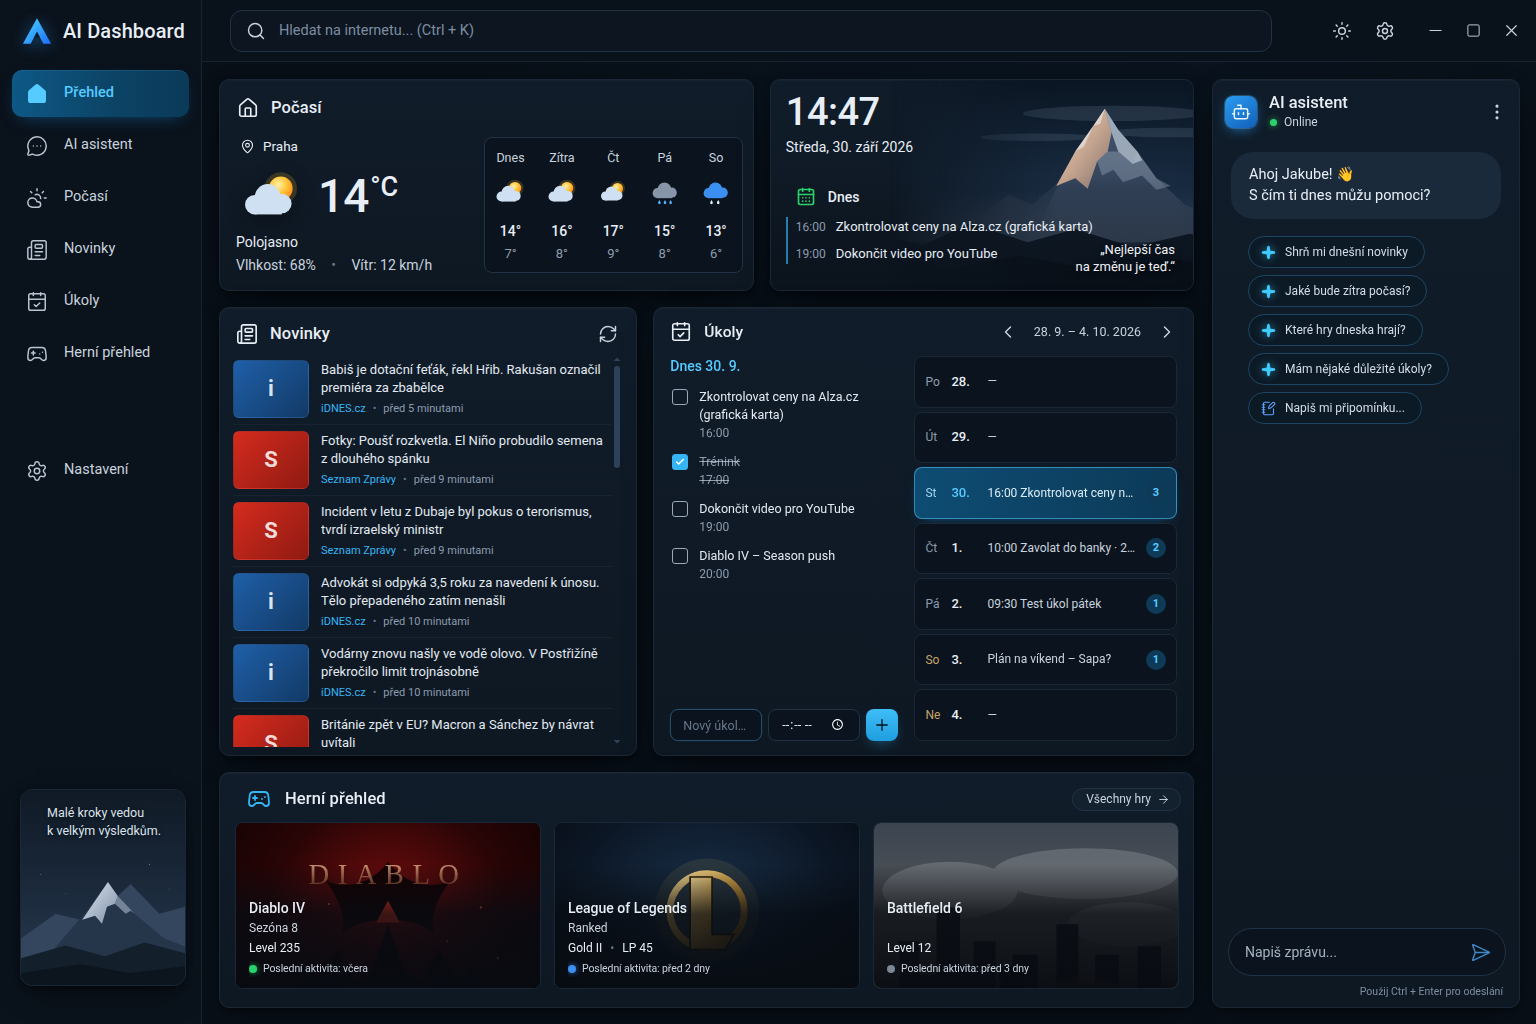
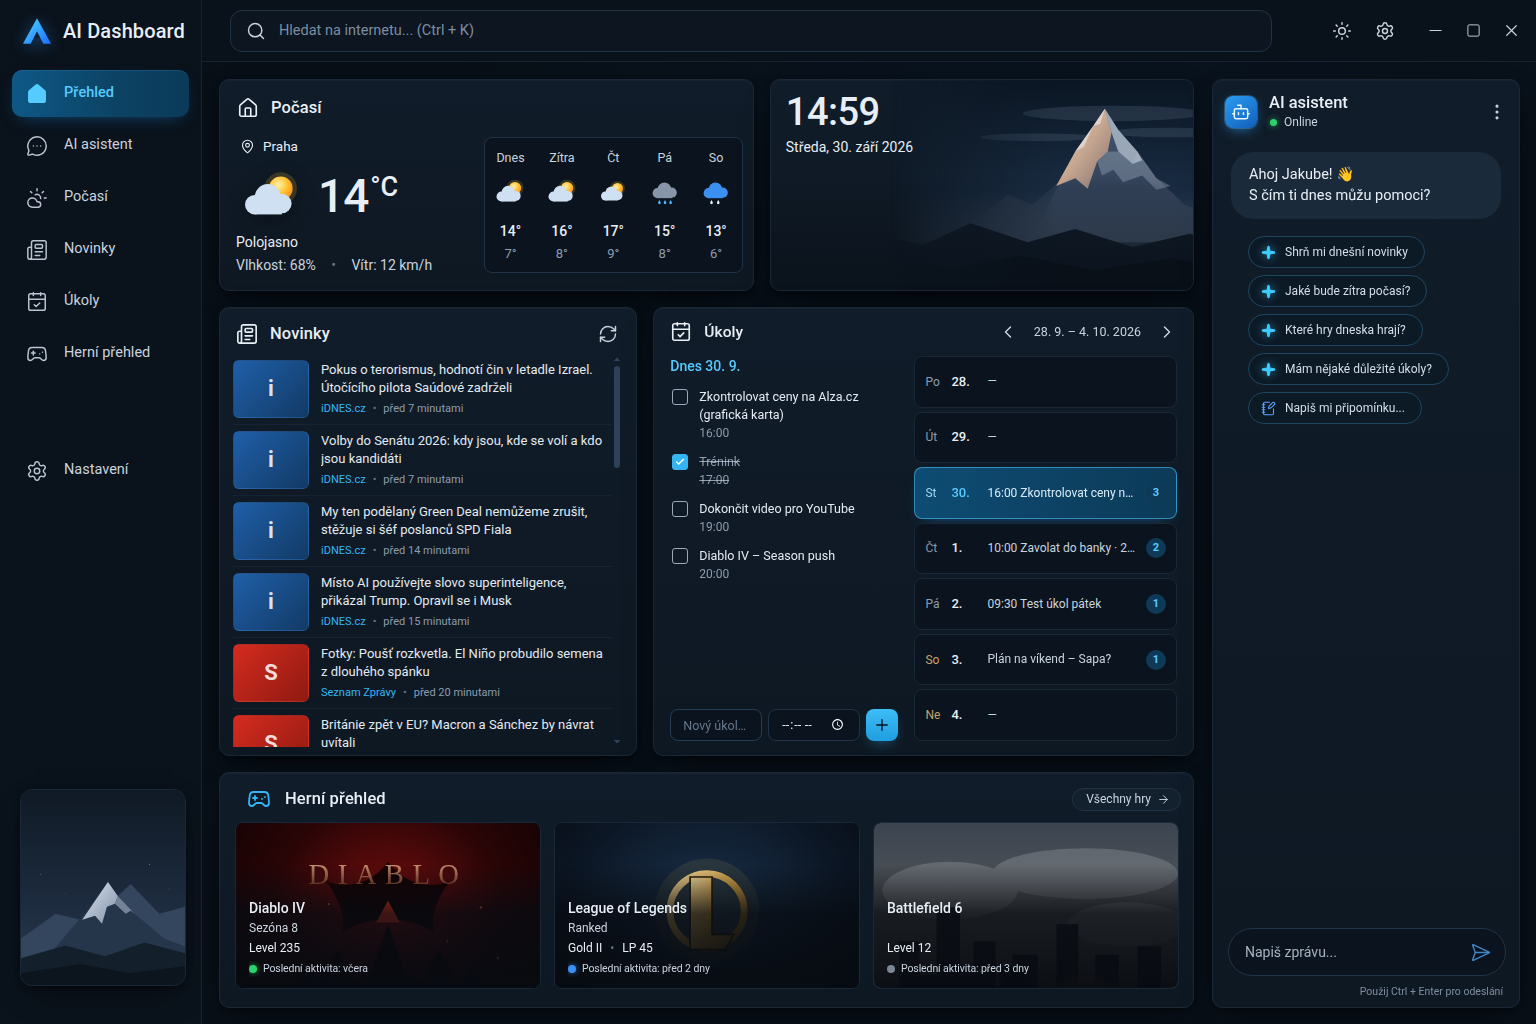
Build portable exe only; drop agenda and quote texts
- Windows build produces only AI-Dashboard-<version>-portable.exe
  (no NSIS installer, no zip).
- Clock card: removed today's task agenda (tasks live in the Úkoly card)
  and the „Nejlepší čas na změnu je teď“ quote.
- Sidebar card: removed the „Malé kroky vedou k velkým výsledkům“ text.

Claude-Session: https://claude.ai/code/session_01SKftjndGtxnayR8RFE7BFb

diff --git a/styles.css b/styles.css
@@ -215,15 +215,6 @@ i[data-lucide],
   box-shadow: var(--shadow-card);
 }
 .quote-card img { width: 100%; height: 100%; object-fit: cover; }
-.quote-card figcaption {
-  position: absolute;
-  inset: 0 0 auto;
-  padding: 14px 16px 0 26px;
-  font-size: 12.5px;
-  line-height: 1.4;
-  color: #dbe4ee;
-  text-shadow: 0 1px 4px rgba(0, 0, 0, 0.6);
-}
 
 .sidebar-backdrop {
   position: fixed;
@@ -457,37 +448,6 @@ i[data-lucide],
   font-variant-numeric: tabular-nums;
 }
 .clock__date { margin-top: 3px; font-size: 14px; line-height: 20px; color: var(--text); }
-.clock__today {
-  display: flex;
-  align-items: center;
-  gap: 12px;
-  margin-top: 30px;
-  padding-left: 10px;
-  font-size: 14px;
-  font-weight: 500;
-  line-height: 20px;
-}
-.clock__today .lucide { width: 20px; height: 20px; color: var(--green); stroke-width: 2; }
-.agenda {
-  display: flex;
-  flex-direction: column;
-  gap: 7px;
-  margin-top: 10px;
-  padding-left: 8px;
-  border-left: 2px solid rgba(54, 181, 244, 0.65);
-}
-.agenda__item { display: flex; gap: 12px; font-size: 13px; line-height: 20px; }
-.agenda__item time { width: 28px; font-size: 12px; color: var(--muted); font-variant-numeric: tabular-nums; }
-.clock__quote {
-  position: absolute;
-  right: 18px;
-  bottom: 14px;
-  font-size: 13px;
-  line-height: 1.35;
-  text-align: right;
-  color: #eef3f8;
-  text-shadow: 0 1px 6px rgba(0, 0, 0, 0.7);
-}
 
 /* ---------- Novinky ---------- */
 .news { display: flex; flex-direction: column; min-height: 0; padding: 16px 14px 8px 13px; }

diff --git a/script.js b/script.js
@@ -220,7 +220,7 @@
       $(".task__due", li).textContent = task.time || "Kdykoliv";
       const box = $(".checkbox", li);
       box.checked = task.done;
-      box.addEventListener("change", () => { task.done = box.checked; saveTasks(); renderWeek(); renderAgenda(); });
+      box.addEventListener("change", () => { task.done = box.checked; saveTasks(); renderWeek(); });
       $(".task__delete", li).addEventListener("click", () => {
         tasks = tasks.filter((t) => t !== task);
         saveTasks();
@@ -273,24 +273,7 @@
     }));
   };
 
-  const renderAgenda = () => {
-    const agenda = $("#agenda");
-    const upcoming = tasksFor(todayKey()).filter((t) => !t.done).slice(0, 2);
-    if (!upcoming.length) {
-      agenda.innerHTML = `<li class="agenda__item agenda__item--empty">Na dnes nic dalšího</li>`;
-      return;
-    }
-    agenda.replaceChildren(...upcoming.map((t) => {
-      const li = document.createElement("li");
-      li.className = "agenda__item";
-      li.innerHTML = "<time></time><span></span>";
-      $("time", li).textContent = t.time || "—";
-      $("span", li).textContent = t.title;
-      return li;
-    }));
-  };
-
-  const renderAll = () => { renderWeek(); renderDay(); renderAgenda(); };
+  const renderAll = () => { renderWeek(); renderDay(); };
 
   $("#week-prev").addEventListener("click", () => { weekStart = addDays(weekStart, -7); renderWeek(); });
   $("#week-next").addEventListener("click", () => { weekStart = addDays(weekStart, 7); renderWeek(); });

diff --git a/index.html b/index.html
@@ -132,7 +132,6 @@
 
       <figure class="quote-card">
         <img src="assets/img/quote-mountain.svg" width="166" height="197" alt="">
-        <figcaption>Malé kroky vedou<br>k velkým výsledkům.</figcaption>
       </figure>
     </aside>
 
@@ -217,10 +216,7 @@
             <time class="clock__time" id="clock-time" datetime="15:42">15:42</time>
             <p class="clock__date" id="clock-date">Středa, 30. dubna 2025</p>
 
-            <h2 class="clock__today"><i data-lucide="calendar-days"></i>Dnes</h2>
-            <ul class="agenda" id="agenda"></ul>
           </div>
-          <blockquote class="clock__quote">„Nejlepší čas<br>na změnu je teď.“</blockquote>
         </section>
 
         <!-- Novinky (Seznam Zprávy, Novinky.cz, iDNES.cz – načítá se živě z RSS) -->

diff --git a/README.md b/README.md
@@ -6,16 +6,10 @@ dvojklik pro maximalizaci, tlačítka minimalizovat / maximalizovat / zavřít.
 
 <img src="docs/preview-desktop.png" alt="Náhled aplikace" width="100%">
 
-## Stažení a instalace
+## Stažení
 
-**Stažení:** [github.com/vopasek1-wq/Jimmy/releases/latest](https://github.com/vopasek1-wq/Jimmy/releases/latest)
-(soubory jsou také v GitHub Actions → workflow **Windows build** → artefakt `AI-Dashboard-Windows`):
-
-| Soubor | Použití |
-| --- | --- |
-| `AI-Dashboard-Setup-1.0.0.exe` | Instalátor (zástupce na ploše a v nabídce Start) |
-| `AI-Dashboard-1.0.0-portable.exe` | Přenosná verze – jeden soubor, bez instalace |
-| `AI-Dashboard-1.0.0-win-x64.zip` | Rozbalit a spustit `AI Dashboard.exe` |
+Sestavený soubor je v GitHub Actions → workflow **Windows build** → artefakt `AI-Dashboard-Windows`:
+`AI-Dashboard-1.0.0-portable.exe` – stačí stáhnout a spustit, bez instalace.
 
 Aplikace není digitálně podepsaná, takže Windows SmartScreen může při prvním spuštění zobrazit
 varování → **Další informace** → **Přesto spustit**.
@@ -28,7 +22,6 @@ varování → **Další informace** → **Přesto spustit**.
   (porovnání klíčových slov titulku a perexu). Kliknutí otevře článek v prohlížeči.
 - **Úkoly – týdenní kalendář:** vpravo dny v týdnu (šipkami se přepíná týden, klik na datum vrátí
   na dnešek), vlevo úkoly vybraného dne s možností přidat (i s časem), odškrtnout a smazat.
-  Dnešní nesplněné úkoly se ukazují v kartě s hodinami.
 - **Ukládání:** úkoly zůstávají i po restartu aplikace.
 - Vyhledávání a odkazy se otevírají ve výchozím prohlížeči; ikony a písmo jsou přibalené.
 - Počasí, herní přehled a odpovědi AI asistenta jsou zatím ukázková data.
@@ -38,8 +31,7 @@ varování → **Další informace** → **Přesto spustit**.
 ```bash
 npm install
 npm start            # spustí aplikaci
-npm run dist         # sestaví instalátor, portable .exe a zip do složky dist/ (na Windows)
-npm run dist:zip     # jen zip – jde sestavit i na Linuxu/macOS
+npm run dist         # sestaví portable .exe do složky dist/ (na Windows)
 ```
 
 | Soubor | Obsah |
